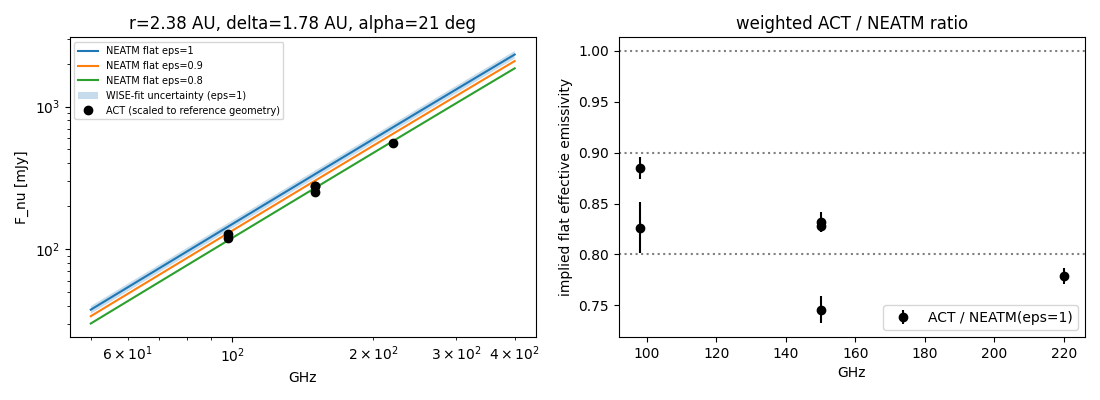
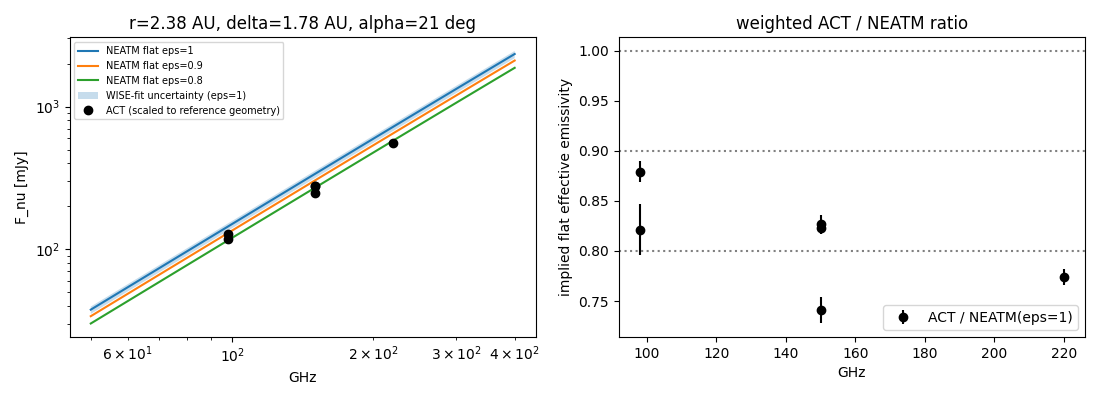
Overlay L5 e(f) on the ACT lambda^4 F_lambda SED

diff --git a/reports/act_vesta/act_vs_neatm.html b/reports/act_vesta/act_vs_neatm.html
@@ -1,4 +1,4 @@
-<h1>Vesta: ACT vs NEATM (flat emissivity)</h1><p>NEATM fit to WISE: logD = 5.641, logT1 = 2.625, chi2 = 16.1 / 20. Band centres are nominal; no colour correction.</p><img src="act_sed_lambda4.png"><img src="act_vs_neatm_sed.png"><img src="act_vs_neatm_scatter.png"><table border="1" class="dataframe">
+<h1>Vesta: ACT vs NEATM (flat emissivity)</h1><p>NEATM fit to WISE: logD = 5.641, logT1 = 2.625, chi2 = 16.0 / 20. Band centres are nominal; no colour correction.</p><img src="act_sed_lambda4.png"><img src="act_vs_neatm_sed.png"><img src="act_vs_neatm_scatter.png"><table border="1" class="dataframe">
   <thead>
     <tr style="text-align: right;">
       <th>array</th>
@@ -20,12 +20,12 @@
       <td>pa4</td>
       <td>150.0</td>
       <td>159</td>
-      <td>0.832</td>
-      <td>0.010</td>
-      <td>0.051</td>
-      <td>565.421</td>
-      <td>306.349</td>
-      <td>266.849</td>
+      <td>0.827</td>
+      <td>0.009</td>
+      <td>0.052</td>
+      <td>589.271</td>
+      <td>315.234</td>
+      <td>263.564</td>
       <td>255.600</td>
       <td>1581.116</td>
       <td>1581.116</td>
@@ -34,12 +34,12 @@
       <td>pa4</td>
       <td>220.0</td>
       <td>144</td>
-      <td>0.779</td>
+      <td>0.774</td>
       <td>0.008</td>
-      <td>0.047</td>
-      <td>1095.848</td>
-      <td>537.779</td>
-      <td>305.512</td>
+      <td>0.048</td>
+      <td>1142.597</td>
+      <td>561.051</td>
+      <td>309.485</td>
       <td>298.128</td>
       <td>3164.580</td>
       <td>3164.580</td>
@@ -48,12 +48,12 @@
       <td>pa5</td>
       <td>98.0</td>
       <td>178</td>
-      <td>0.885</td>
+      <td>0.879</td>
       <td>0.010</td>
-      <td>0.054</td>
-      <td>357.269</td>
-      <td>236.758</td>
-      <td>301.513</td>
+      <td>0.055</td>
+      <td>371.092</td>
+      <td>238.641</td>
+      <td>293.801</td>
       <td>234.661</td>
       <td>717.924</td>
       <td>717.924</td>
@@ -62,12 +62,12 @@
       <td>pa5</td>
       <td>150.0</td>
       <td>176</td>
-      <td>0.828</td>
-      <td>0.006</td>
-      <td>0.051</td>
-      <td>1246.959</td>
-      <td>450.222</td>
-      <td>306.971</td>
+      <td>0.823</td>
+      <td>0.005</td>
+      <td>0.052</td>
+      <td>1319.572</td>
+      <td>478.131</td>
+      <td>298.497</td>
       <td>281.210</td>
       <td>1569.598</td>
       <td>1569.598</td>
@@ -76,12 +76,12 @@
       <td>pa6</td>
       <td>98.0</td>
       <td>62</td>
-      <td>0.826</td>
+      <td>0.821</td>
       <td>0.025</td>
-      <td>0.050</td>
-      <td>124.678</td>
-      <td>86.418</td>
-      <td>79.131</td>
+      <td>0.051</td>
+      <td>128.133</td>
+      <td>87.762</td>
+      <td>78.756</td>
       <td>78.045</td>
       <td>662.498</td>
       <td>662.498</td>
@@ -90,12 +90,12 @@
       <td>pa6</td>
       <td>150.0</td>
       <td>61</td>
-      <td>0.746</td>
-      <td>0.014</td>
-      <td>0.045</td>
-      <td>409.932</td>
-      <td>186.754</td>
-      <td>72.796</td>
+      <td>0.741</td>
+      <td>0.013</td>
+      <td>0.046</td>
+      <td>427.787</td>
+      <td>196.563</td>
+      <td>75.951</td>
       <td>56.672</td>
       <td>1399.368</td>
       <td>1399.368</td>

diff --git a/scripts/act_vs_neatm.py b/scripts/act_vs_neatm.py
@@ -21,7 +21,12 @@ from atm.config import Config
 from atm.constants import Constants
 from atm.functions.hg import calcHG, calcQ
 from atm.functions.flux_lambda import calcFluxLambdaSun
-from atm.functions.emissivity import ghzGridToLambda, ghzListToLambda, lambdaToGHz
+from atm.functions.emissivity import (
+    EmissivityTable,
+    ghzGridToLambda,
+    ghzListToLambda,
+    lambdaToGHz,
+)
 from atm.functions.interpolate_flux_lambda import interpFluxLambdaAtObs
 from atm.mmfit import checkTableRange, fitEmcee, fluxLambdaToJy, loadWiseFromDb
 from atm.models import NEATM
@@ -228,10 +233,22 @@ def sedFigure(
     )
     effL = obs.filterEffectiveLambdas
 
-    def flux(k: int, tail: float | None) -> np.ndarray:
-        """lambda^4 F_lambda [W m] for draw k; eps beyond W4 is `tail` (None: the W4 value)."""
+    def flux(k: int, tail: float | EmissivityTable | None) -> np.ndarray:
+        """
+        lambda^4 F_lambda [W m] for draw k. Beyond W4 the emissivity is `tail`: None keeps the W4 value, a float
+        is a flat eps, and an `~atm.functions.EmissivityTable` is used where it is defined (the W4 value
+        in the gap below its range, NaN above its longest wavelength, i.e. no extrapolation, and NaN inside the WISE
+        range so that only the part beyond W4 is drawn).
+        """
         eps = np.interp(lam, effL, eps4[k])
-        if tail is not None:
+        nanMask = np.zeros(lam.shape, bool)
+        if isinstance(tail, EmissivityTable):
+            f = lambdaToGHz(lam)
+            inr = (lam > effL[-1]) & (f >= tail.f_ghz[0]) & (f <= tail.f_ghz[-1])
+            eps = np.where(lam > effL[-1], eps4[k, -1], eps)
+            eps[inr] = tail(lam[inr])
+            nanMask = (lam <= effL[-1]) | (f < tail.f_ghz[0])
+        elif tail is not None:
             eps = np.where(lam > effL[-1], tail, eps)
         p = (1 - eps) / calcQ(G)
         D = 10 ** post["logD"].values[k]
@@ -240,8 +257,17 @@ def sedFigure(
             / (4 * d0**2 * AU**2)
             * (eps * th[k] + p * calcHG(al0, G) * calcFluxLambdaSun(lam, r0))
         )
-        return F * lam**4
+        return np.where(nanMask, np.nan, F * lam**4)
 
+    rng = np.random.default_rng(2)
+    tables = []
+    if a.emissivity:
+        nEps = len(np.load(a.emissivity)["e_draws"])
+        tables = [
+            EmissivityTable.fromNpz(a.emissivity, draw=int(i))
+            for i in rng.integers(nEps, size=len(T))
+        ]
+    l5 = np.array([flux(k, tables[k]) for k in range(len(T))]) if tables else None
     fig, ax = plt.subplots(figsize=(8, 5.5))
     base = np.array([flux(k, None) for k in range(len(T))])
     lo, med, hi = np.percentile(base, [2.5, 50, 97.5], axis=0)
@@ -259,6 +285,16 @@ def sedFigure(
             ls="--",
             c=f"C{i}",
             label=f"flat eps = {x:g} beyond W4",
+        )
+    if l5 is not None:
+        l5lo, l5med, l5hi = np.nanpercentile(l5, [2.5, 50, 97.5], axis=0)
+        ax.fill_between(lam * 1e6, l5lo, l5hi, alpha=0.25, color="C4")
+        ax.plot(
+            lam * 1e6,
+            l5med,
+            c="C4",
+            lw=2,
+            label=f"L5 e(f) beyond W4 ({Path(a.emissivity).stem}), 95%",
         )
     for j, n in enumerate(obs.filterNames):
         w, e = wise[cm["flux_si"][j]], wise[cm["fluxErr_si"][j]]
@@ -319,6 +355,9 @@ def sedFigure(
             ls="--",
             c=f"C{i}",
         )
+    if l5 is not None:
+        ins.fill_between(lam * 1e6, l5lo, l5hi, alpha=0.25, color="C4")
+        ins.plot(lam * 1e6, l5med, c="C4", lw=2)
     for x, y, ye, m in zoom:
         ins.errorbar(x, y, ye, fmt=m, c="r", ms=4)
     ins.set(xlim=(1.1e3, 3.4e3))
@@ -351,6 +390,12 @@ def main() -> None:
     )
     ap.add_argument("--flat-eps", type=float, nargs="+", default=[1.0, 0.9, 0.8])
     ap.add_argument("--n-draws", type=int, default=100)
+    ap.add_argument(
+        "--emissivity",
+        type=lambda x: Path(x) if x else None,
+        default=Path("../Meteorites-TeraFlash/results/emissivity/L5_l5c.npz"),
+        help="TeraFlash e(f) NPZ overlaid on the SED (pass an empty string to skip)",
+    )
     ap.add_argument(
         "--n-sed-draws",
         type=int,
